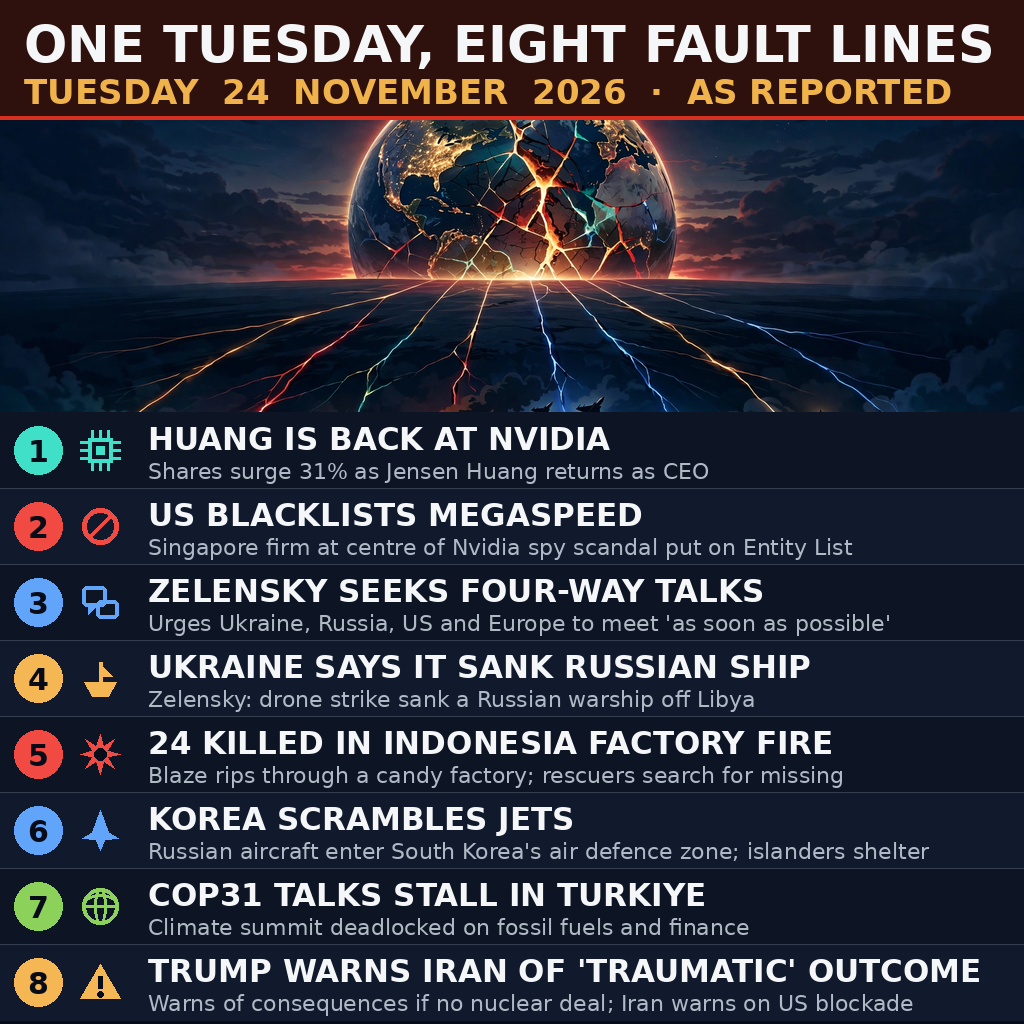
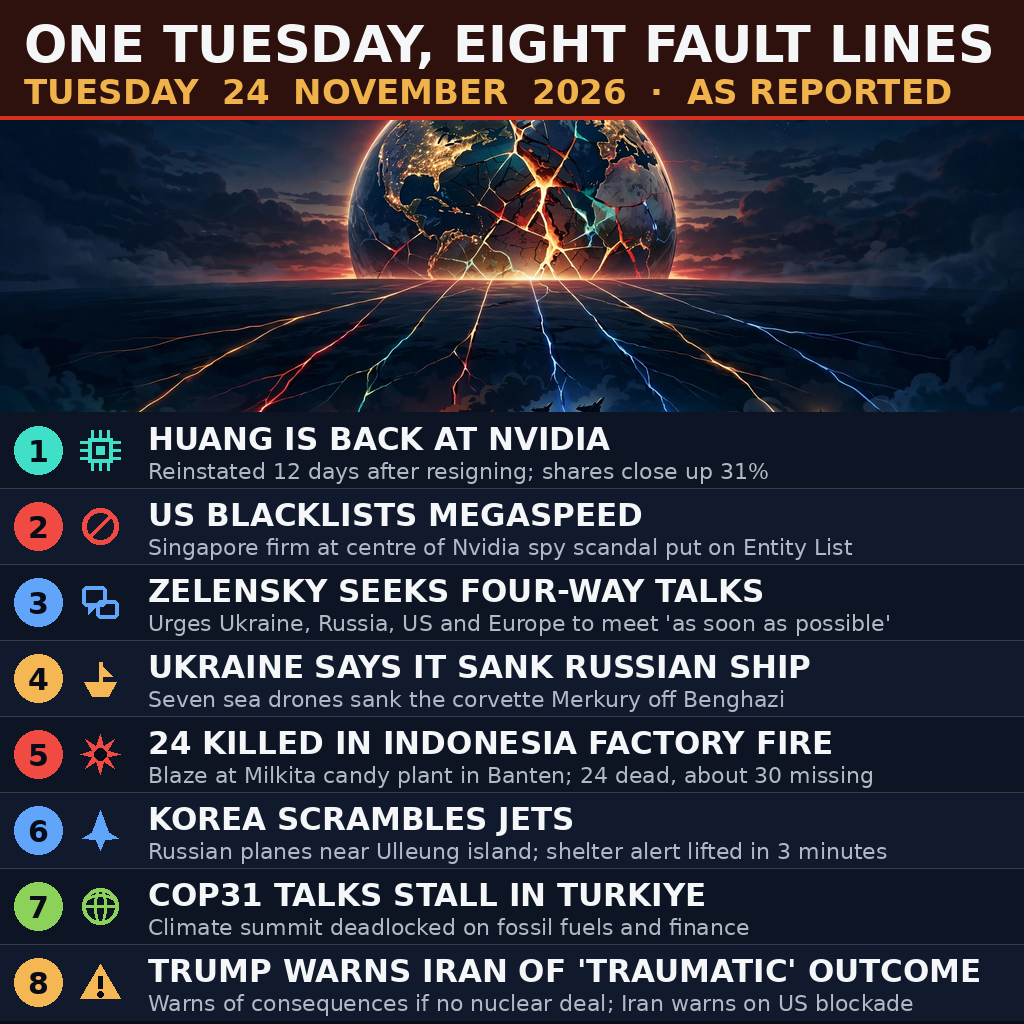
news-image-20261124: sharpen deck lines with verified specifics
Deck lines now carry checkable details (12-day resignation gap,
+31% close; seven sea drones, corvette Merkury off Benghazi;
Milkita plant in Banten, 24 dead / ~30 missing; Ulleung shelter
alert lifted in 3 minutes), each verified against 24 Nov reporting.

diff --git a/draw.py b/draw.py
@@ -56,17 +56,17 @@ ACCENTS = [
 
 STORIES = [
     ("HUANG IS BACK AT NVIDIA",
-     "Shares surge 31% as Jensen Huang returns as CEO"),
+     "Reinstated 12 days after resigning; shares close up 31%"),
     ("US BLACKLISTS MEGASPEED",
      "Singapore firm at centre of Nvidia spy scandal put on Entity List"),
     ("ZELENSKY SEEKS FOUR-WAY TALKS",
      "Urges Ukraine, Russia, US and Europe to meet 'as soon as possible'"),
     ("UKRAINE SAYS IT SANK RUSSIAN SHIP",
-     "Zelensky: drone strike sank a Russian warship off Libya"),
+     "Seven sea drones sank the corvette Merkury off Benghazi"),
     ("24 KILLED IN INDONESIA FACTORY FIRE",
-     "Blaze rips through a candy factory; rescuers search for missing"),
+     "Blaze at Milkita candy plant in Banten; 24 dead, about 30 missing"),
     ("KOREA SCRAMBLES JETS",
-     "Russian aircraft enter South Korea's air defence zone; islanders shelter"),
+     "Russian planes near Ulleung island; shelter alert lifted in 3 minutes"),
     ("COP31 TALKS STALL IN TURKIYE",
      "Climate summit deadlocked on fossil fuels and finance"),
     ("TRUMP WARNS IRAN OF 'TRAUMATIC' OUTCOME",
